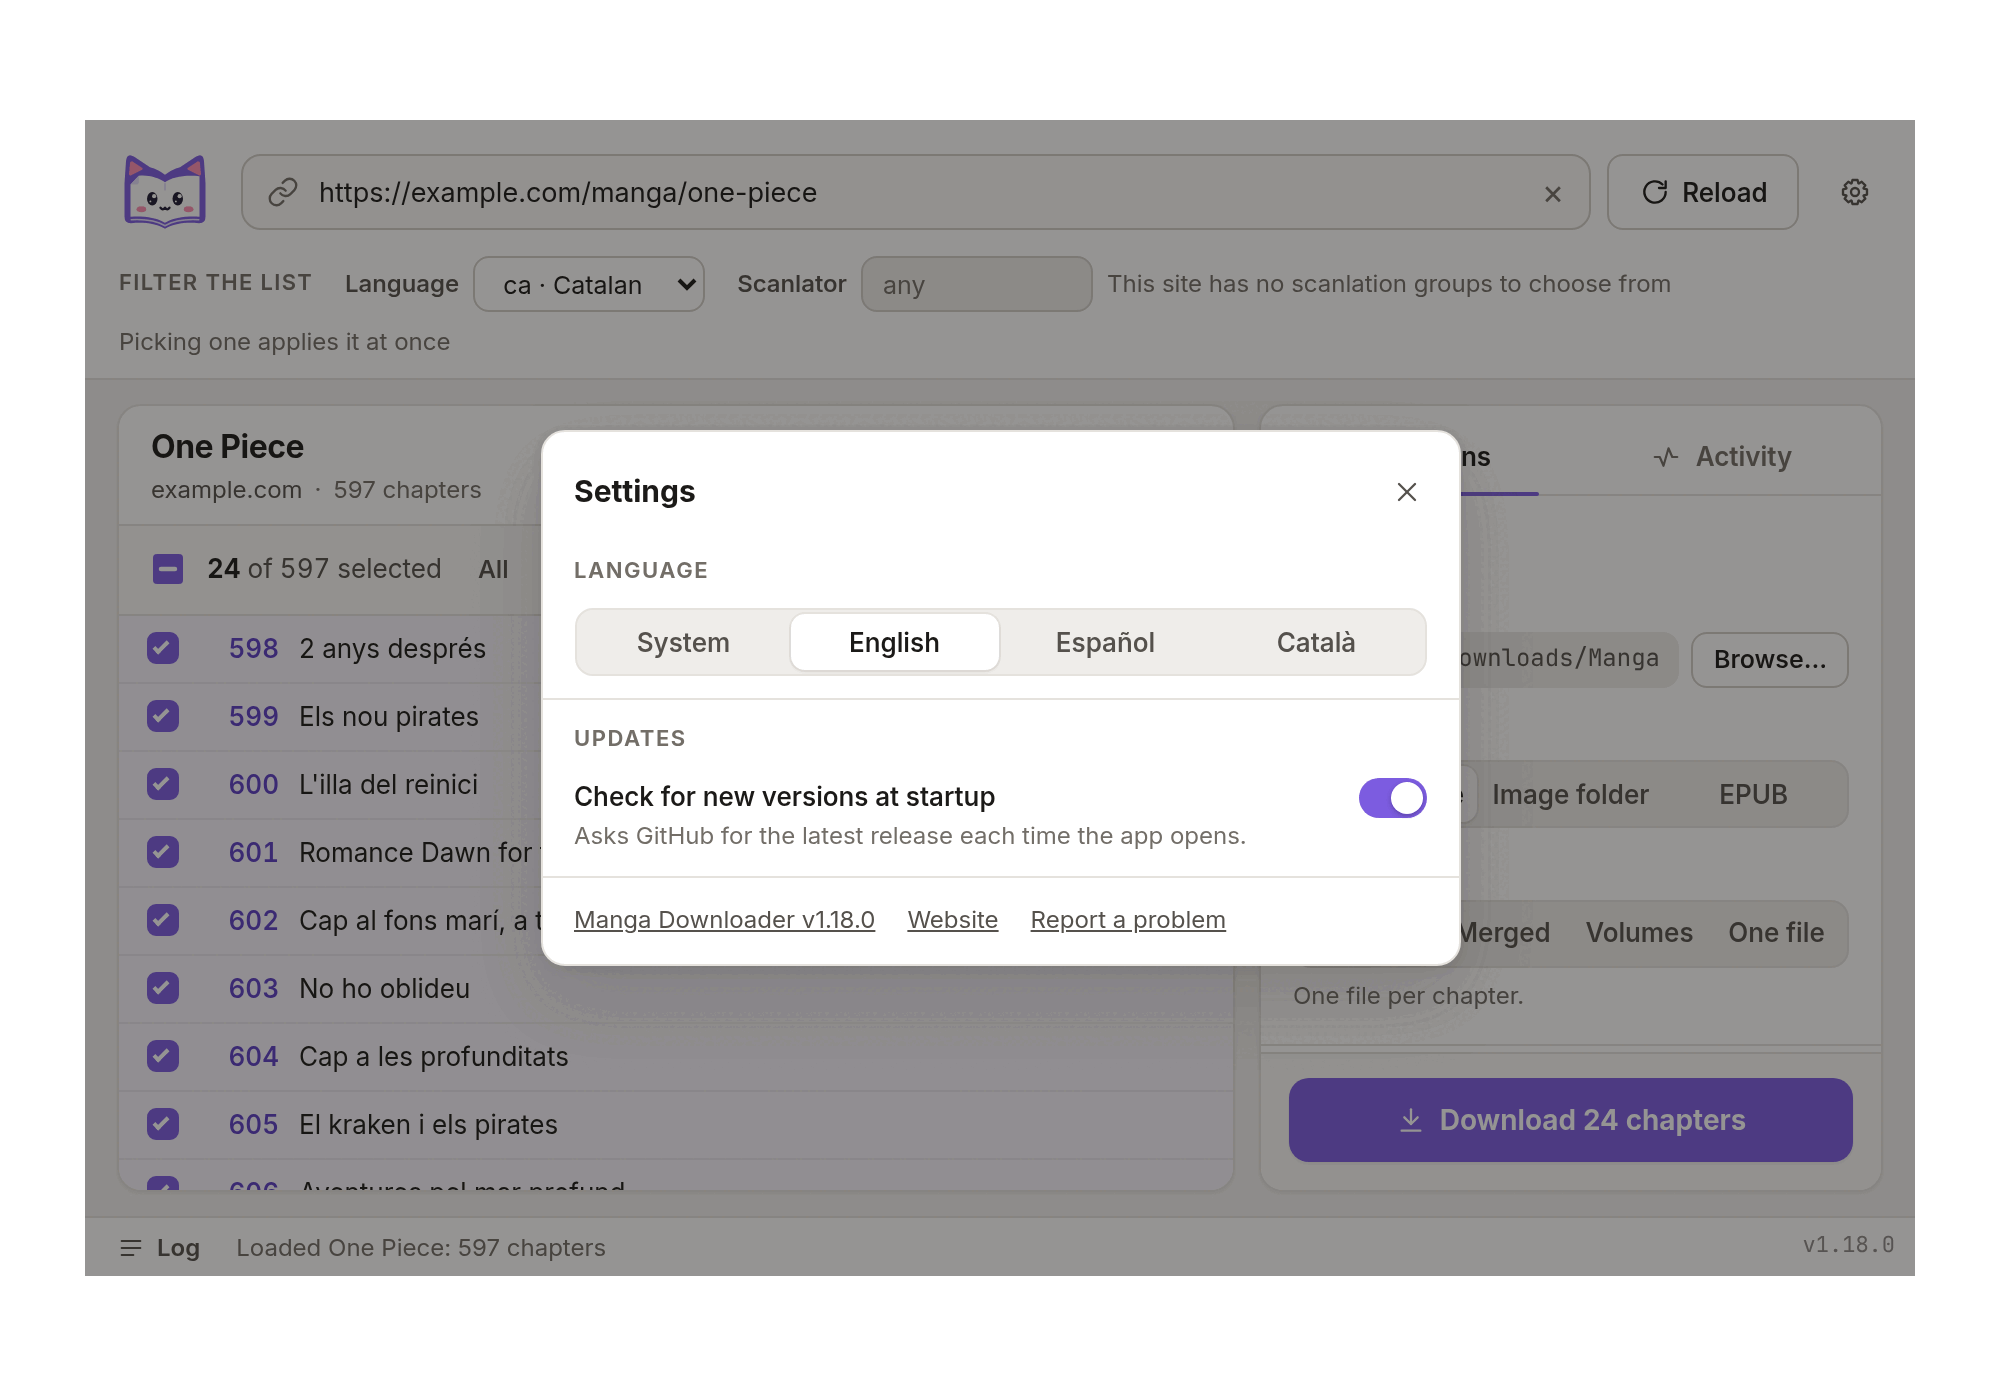
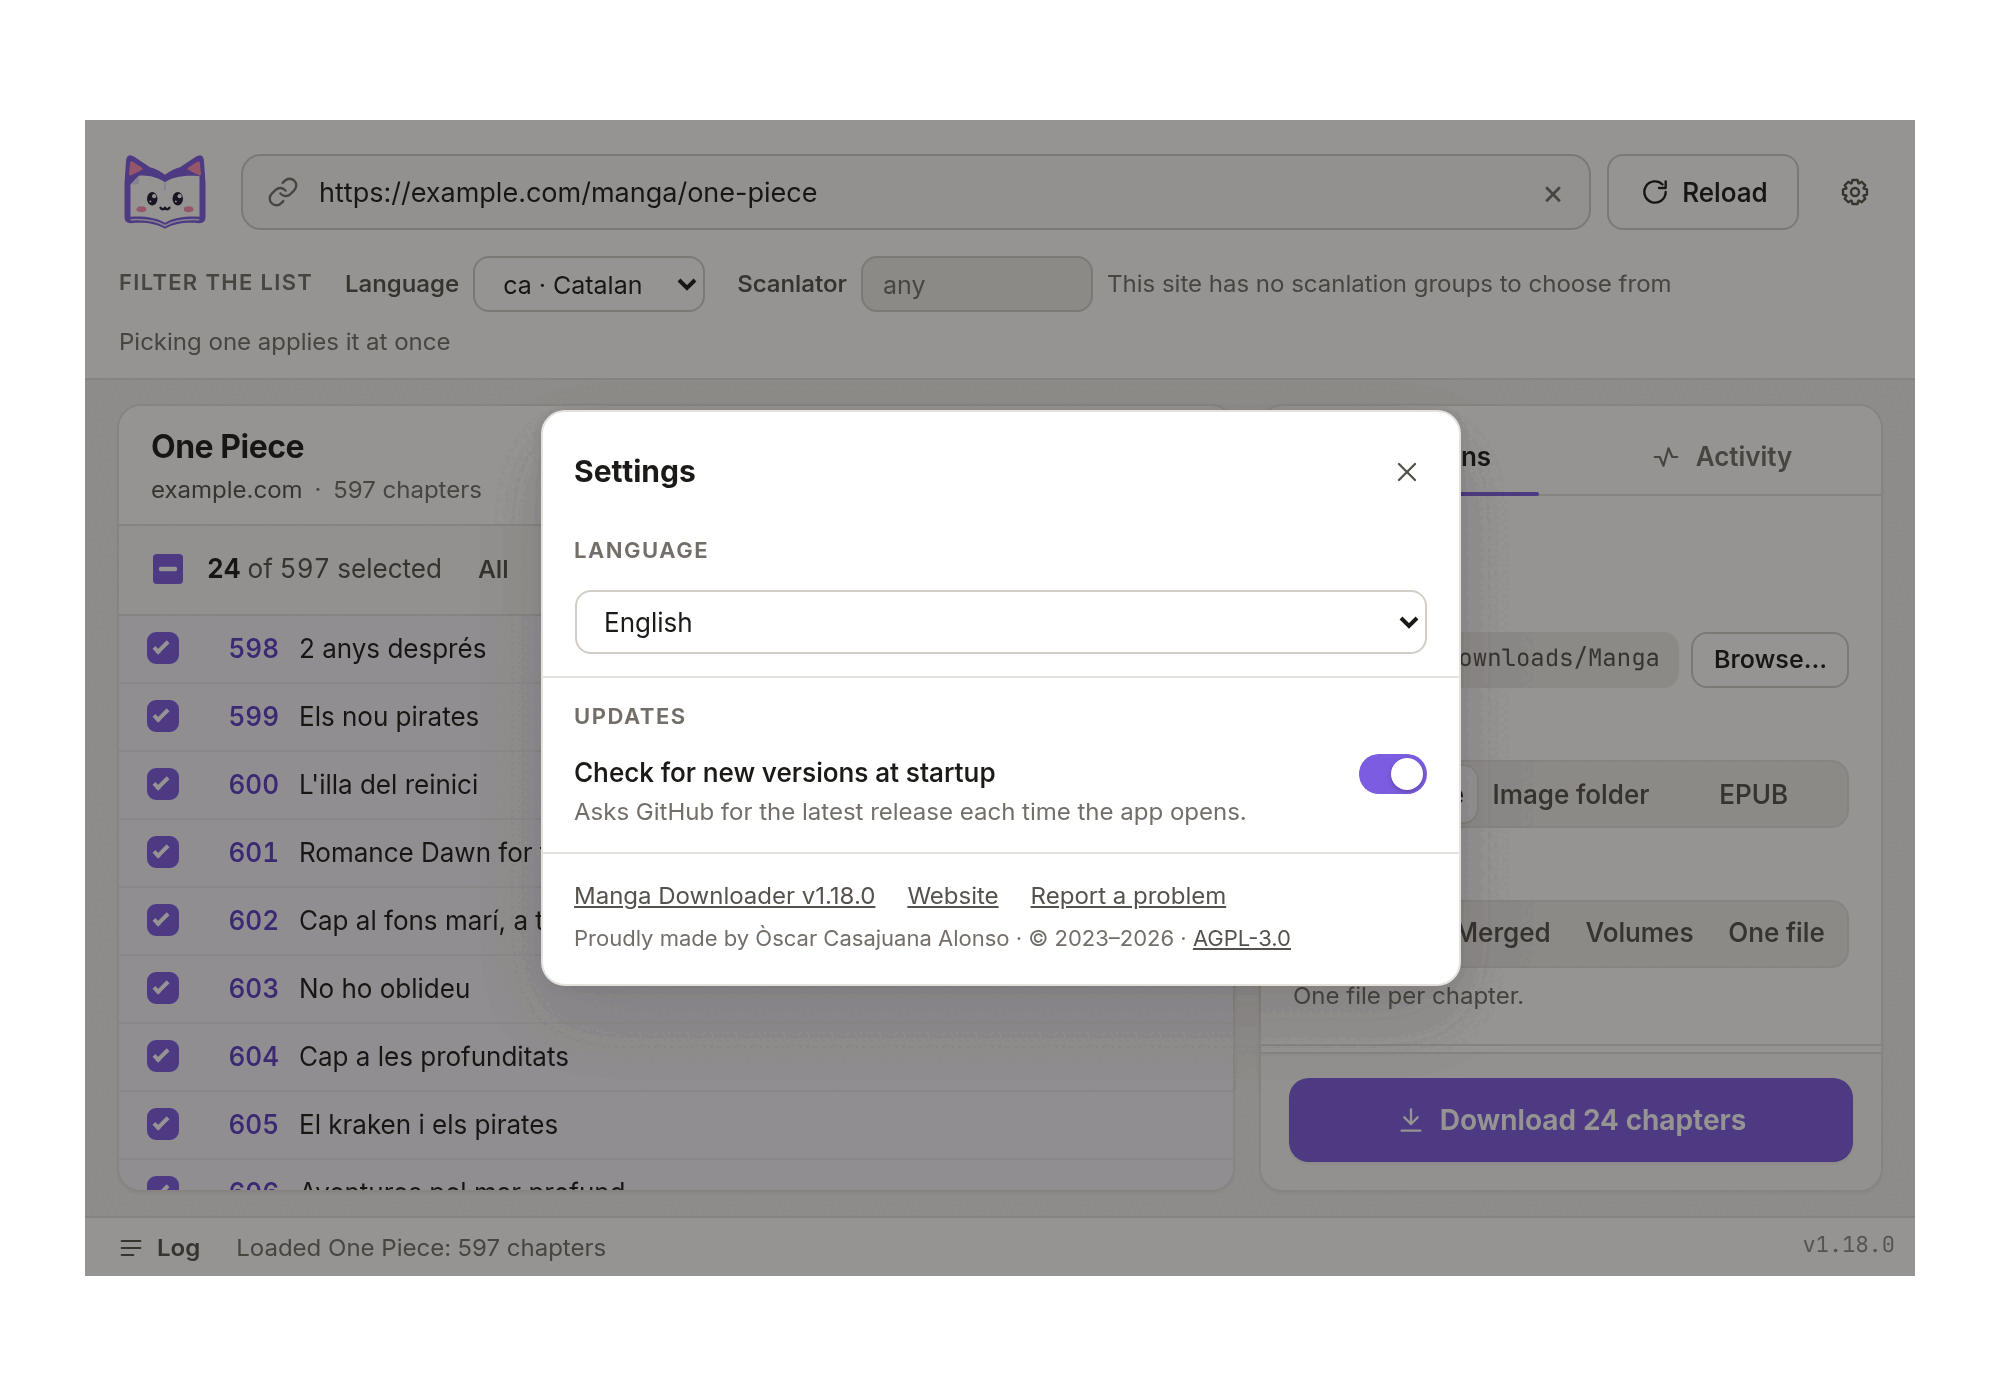
feat(gui): pick the settings language from a dropdown
A select scales better than the segmented control as languages are added. The System option names the language it resolves to, so the follows-the-system hint is gone.

Changed region(s): [[0.248, 0.2784, 0.744, 0.7115], [0.682, 0.5259, 0.713, 0.5878]]

diff --git a/gui/frontend/src/SettingsDialog.test.ts b/gui/frontend/src/SettingsDialog.test.ts
@@ -36,20 +36,28 @@ function render(pref: LangPref, s: State, systemLanguages = ['fr-FR']) {
 }
 
 describe('SettingsDialog', () => {
-  it('names each language in itself, whatever the UI language', () => {
+  it('names each language in itself as an option, whatever the UI language', () => {
     for (const lang of LANGS) {
       const html = render(lang, state());
-      expect(html, lang).toContain('English');
-      expect(html, lang).toContain('Español');
-      expect(html, lang).toContain('Català');
+      expect(html, lang).toContain('>English</option>');
+      expect(html, lang).toContain('>Español</option>');
+      expect(html, lang).toContain('>Català</option>');
     }
   });
 
-  it('shows the system hint only when the language follows the system', () => {
-    expect(render('', state(), ['fr-FR'])).toContain('Follows the system: English.');
-    expect(render('', state(), ['es-ES'])).toContain('Sigue el idioma del sistema: Español.');
-    expect(render('en', state(), ['es-ES'])).not.toContain('Follows the system');
-    expect(render('ca', state(), ['es-ES'])).not.toContain("Segueix l'idioma del sistema");
+  it('names the resolved system language in the System option', () => {
+    expect(render('', state(), ['fr-FR'])).toContain('<option value="" selected="">System (English)</option>');
+    expect(render('', state(), ['es-ES'])).toContain('<option value="" selected="">Sistema (Español)</option>');
+    expect(render('', state(), ['ca-ES'])).toContain('<option value="" selected="">Sistema (Català)</option>');
+  });
+
+  it('selects the option matching the saved language', () => {
+    for (const lang of LANGS) {
+      const html = render(lang, state());
+      expect(html, lang).toContain(`<option value="${lang}" selected="">`);
+      expect(html.match(/selected=""/g), lang).toHaveLength(1);
+    }
+    expect(render('', state())).not.toContain('<option value="en" selected="">');
   });
 
   it('shows the update switch off and disabled with the dev hint when there is no release URL', () => {

diff --git a/gui/frontend/src/SettingsDialog.tsx b/gui/frontend/src/SettingsDialog.tsx
@@ -5,7 +5,7 @@ import { useEffect, useRef, type MouseEvent } from 'react';
 import { errorMessage } from './format';
 import { LANG_INFO, LANGS, type Lang, type LangPref } from './i18n';
 import { useI18n } from './i18n/react';
-import { Segmented, Switch } from './fields';
+import { SelectField, Switch } from './fields';
 import { XIcon } from './icons';
 import type { State } from './types';
 
@@ -63,9 +63,10 @@ export function SettingsDialog({ state, onClose, onCheckUpdates, onOpenURL, onEr
     onOpenURL(url);
   };
 
+  // the endonyms stay untranslated; System names the language it resolves to
   const languageOptions = [
-    { value: '' as LangPref, label: t('settings.language.system') },
-    ...LANGS.map((l) => ({ value: l as LangPref, label: LANG_INFO[l].name })),
+    { value: '', label: t('settings.language.systemOption', { language: LANG_INFO[systemLang].name }) },
+    ...LANGS.map((l) => ({ value: l, label: LANG_INFO[l].name })),
   ];
 
   // the license is the one link in the line, so the translated text is split around its name
@@ -107,15 +108,12 @@ export function SettingsDialog({ state, onClose, onCheckUpdates, onOpenURL, onEr
         <div className="settings-body">
           <section className="opt-group">
             <h3>{t('settings.language.heading')}</h3>
-            <Segmented<LangPref>
+            <SelectField
               label={t('settings.language.heading')}
               value={pref}
               options={languageOptions}
-              onChange={pick}
+              onChange={(value) => pick(value as LangPref)}
             />
-            {pref === '' && (
-              <p className="hint">{t('settings.language.systemHint', { language: LANG_INFO[systemLang].name })}</p>
-            )}
           </section>
 
           <section className="opt-group">

diff --git a/gui/frontend/src/i18n/rendered.test.ts b/gui/frontend/src/i18n/rendered.test.ts
@@ -239,7 +239,7 @@ function components({ state, chapters, selected, log }: Snapshot): Screen[] {
         label: t('settings.language.heading'),
         value: 'system',
         options: [
-          { value: 'system', label: t('settings.language.system') },
+          { value: 'system', label: t('settings.language.systemOption', { language: LANG_INFO.en.name }) },
           { value: 'en', label: LANG_INFO.en.name },
         ],
         onChange: noop,

diff --git a/gui/frontend/src/styles.css b/gui/frontend/src/styles.css
@@ -2260,8 +2260,8 @@ a.version:hover {
   padding-top: 12px;
 }
 
-/* the heading above is the visible label; the legend keeps the name for screen readers */
-.settings-dialog .segmented-field > legend {
+/* the heading above is the visible label; the select's label keeps the name for screen readers */
+.settings-dialog .opt-group .field > label {
   position: absolute;
   width: 1px;
   height: 1px;
